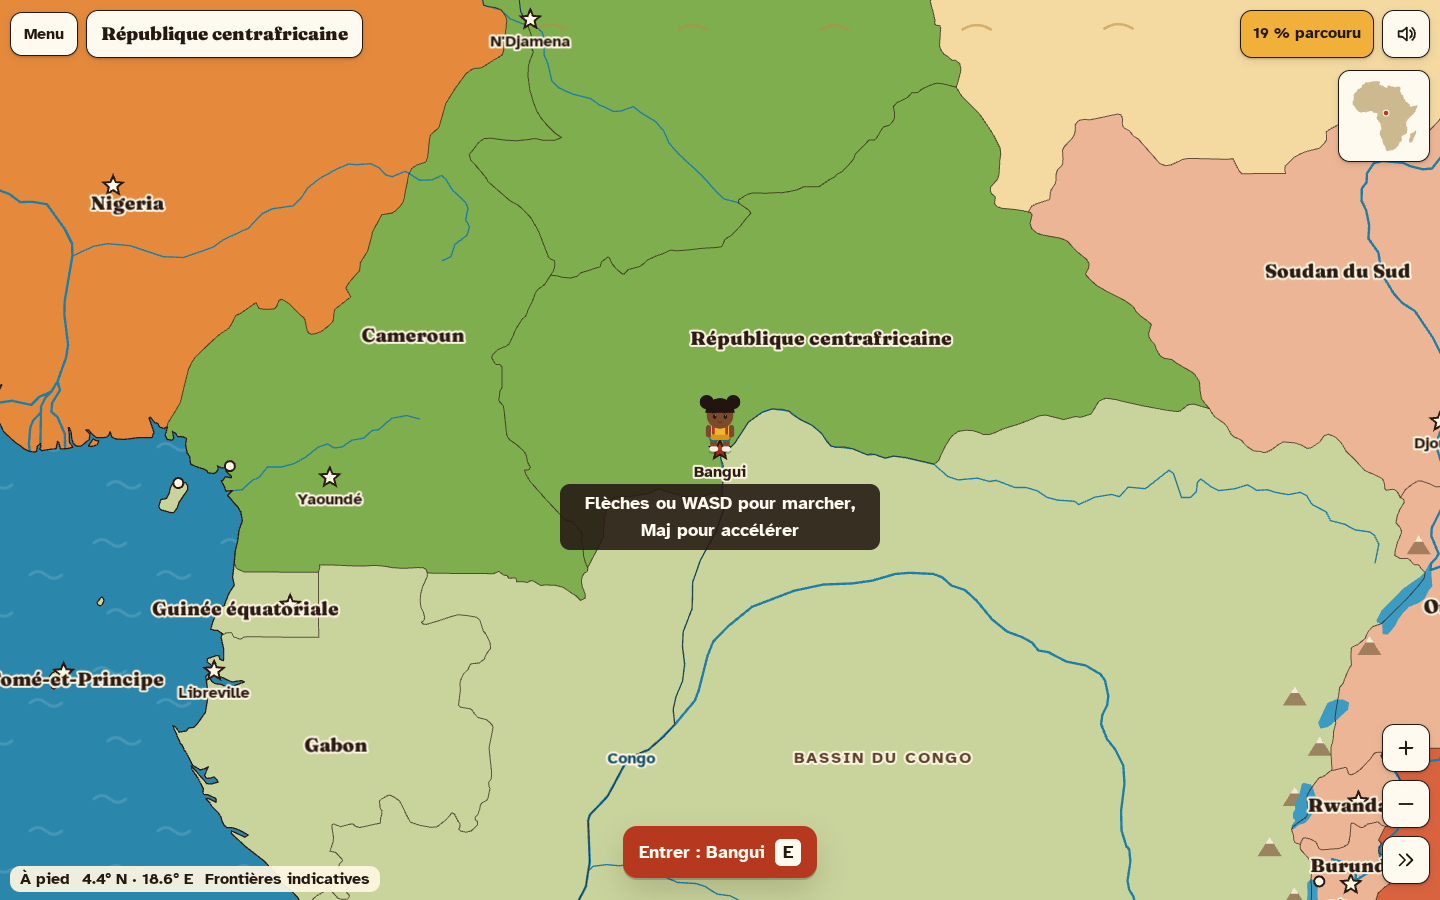
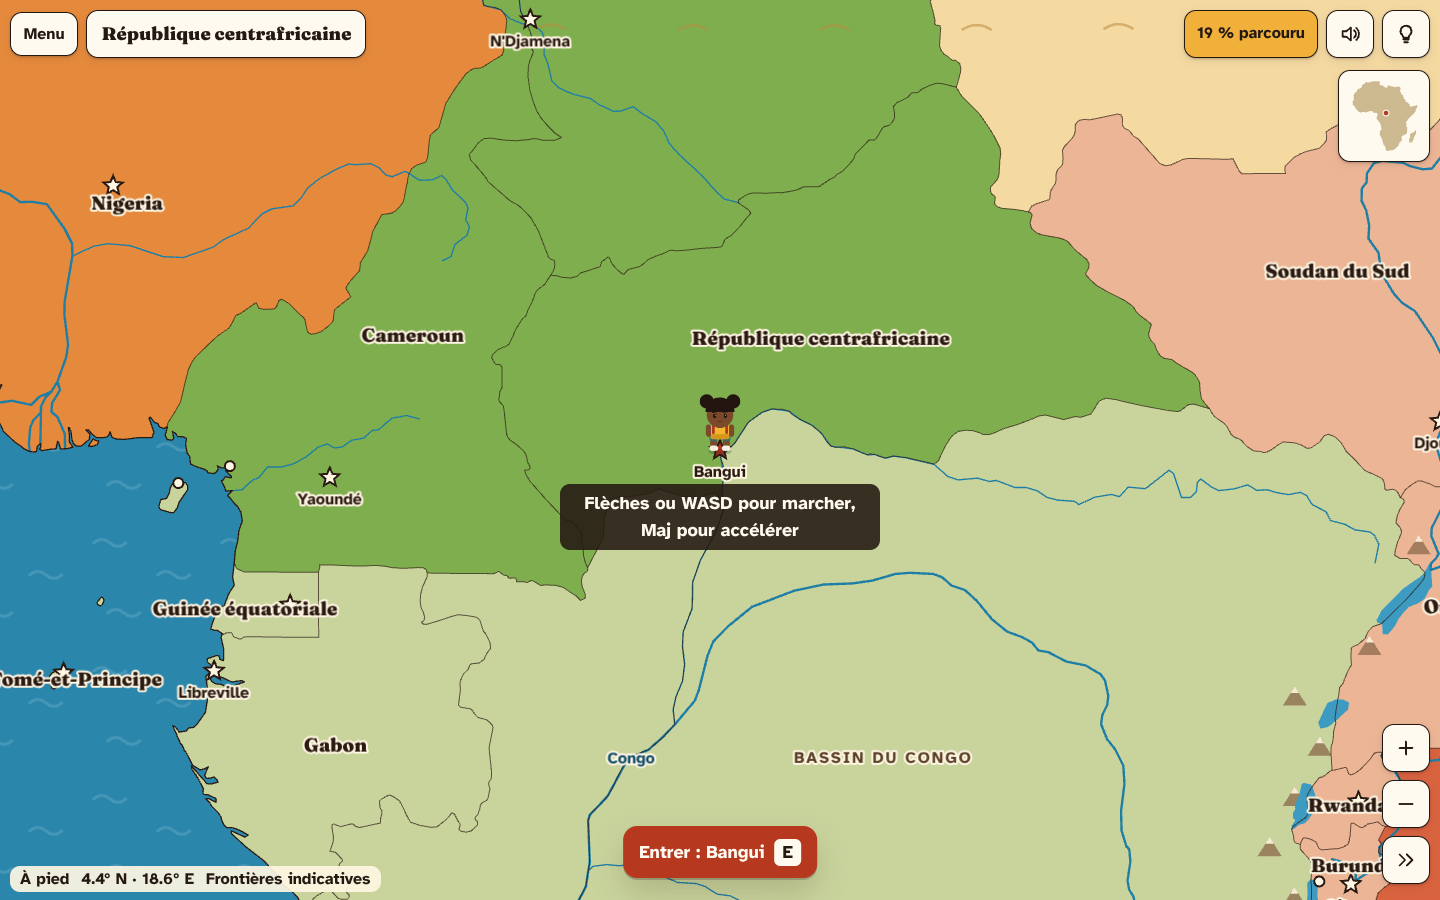
feat(retours): ampoule « Améliorer Tembea » dans la barre de la carte
- bouton icône dans le HUD, sur la carte animée comme sur la carte SVG ;
  il pré-remplit le pays en cours (jamais ESH, ADR 0003)
- nouvel écran de contexte `map` dans core/feedback
- HUD mobile : boutons fixés à 48 px, pourcentage abrégé sous 480 px
  (libellé complet conservé pour les lecteurs d'écran), nom du pays
  césuré plutôt que tronqué
- e2e : ouverture depuis la carte, nom accessible, retour du focus

Claude-Session: https://claude.ai/code/session_01R4T6wZr9osDDEwkiaPqird

diff --git a/src/ui/components/Feedback.tsx b/src/ui/components/Feedback.tsx
@@ -14,6 +14,7 @@ import type { Locale } from '../../core/types';
 import { useGameStore } from '../store';
 import { Dialog } from './Dialog';
 import { ExternalLink } from './ExternalLink';
+import { Icon } from './Icon';
 
 /** Ce que l'écran sait de son contexte ; langue, niveau et version sont ajoutés ici. */
 export type FeedbackTarget = Pick<FeedbackContext, 'screen' | 'country' | 'questionId'>;
@@ -119,14 +120,21 @@ function FeedbackDialog({ target, onClose }: { target: FeedbackTarget; onClose: 
   );
 }
 
-/** Bouton « Améliorer Tembea » : ouvre la contribution guidée, sans saisie libre ni envoi par le jeu. */
+/**
+ * Bouton « Améliorer Tembea » : ouvre la contribution guidée, sans saisie libre ni envoi par le jeu.
+ * `variant="icon"` affiche une ampoule seule, avec le libellé en nom accessible et en infobulle.
+ */
 export function FeedbackButton({
   target,
   className = 'btn btn--small',
+  variant = 'text',
+  testId = 'feedback-open',
   onOpenChange,
 }: {
   target: FeedbackTarget;
   className?: string;
+  variant?: 'text' | 'icon';
+  testId?: string;
   onOpenChange?: (open: boolean) => void;
 }) {
   const { t } = useTranslation();
@@ -135,16 +143,30 @@ export function FeedbackButton({
     setOpen(next);
     onOpenChange?.(next);
   };
+  const label = t('feedback.open');
   return (
     <>
-      <button
-        type="button"
-        className={className}
-        data-testid="feedback-open"
-        onClick={() => toggle(true)}
-      >
-        {t('feedback.open')}
-      </button>
+      {variant === 'icon' ? (
+        <button
+          type="button"
+          className="icon-btn"
+          data-testid={testId}
+          aria-label={label}
+          title={label}
+          onClick={() => toggle(true)}
+        >
+          <Icon name="idea" />
+        </button>
+      ) : (
+        <button
+          type="button"
+          className={className}
+          data-testid={testId}
+          onClick={() => toggle(true)}
+        >
+          {label}
+        </button>
+      )}
       {open && <FeedbackDialog target={target} onClose={() => toggle(false)} />}
     </>
   );

diff --git a/src/ui/screens/PlayScreen.tsx b/src/ui/screens/PlayScreen.tsx
@@ -13,6 +13,7 @@ import type { GameData } from '../../data/gameData';
 import type { GameRendererHandle } from '../../render/GameRenderer';
 import { RoomView } from '../components/RoomView';
 import { CountryCard } from '../components/CountryCard';
+import { FeedbackButton } from '../components/Feedback';
 import { Dialog } from '../components/Dialog';
 import { Joystick } from '../components/Joystick';
 import { Icon } from '../components/Icon';
@@ -647,7 +648,11 @@ export function PlayScreen() {
             data-testid="hud-percent"
             data-stamps={Object.keys(progress.stamps).length}
           >
-            {t('hud.travelled', { percent })}
+            {/* Sur petit écran, le libellé court laisse la place au nom du pays. */}
+            <span className="hud__stat-full">{t('hud.travelled', { percent })}</span>
+            <span className="hud__stat-short" aria-hidden="true">
+              {t('hud.travelledShort', { percent })}
+            </span>
           </p>
           <button
             type="button"
@@ -659,6 +664,18 @@ export function PlayScreen() {
           >
             <Icon name={settings.muted ? 'soundOff' : 'soundOn'} />
           </button>
+          <FeedbackButton
+            variant="icon"
+            testId="hud-feedback"
+            target={{
+              screen: 'map',
+              // Le Sahara occidental n'est pas un État (ADR 0003) : pas de pays pré-rempli.
+              country:
+                currentCountry && currentCountry !== NON_STATE_TERRITORY
+                  ? currentCountry
+                  : undefined,
+            }}
+          />
         </header>
       )}
 

diff --git a/e2e/feedback.spec.ts b/e2e/feedback.spec.ts
@@ -107,3 +107,26 @@ test('la fiche pays propose de contribuer et reste ouverte pendant', async ({ pa
   await page.getByTestId('feedback-close').click();
   await expect(card).toBeVisible();
 });
+
+test('l’ampoule de la carte ouvre la contribution avec le pays en cours', async ({ page }) => {
+  await createProfile(page);
+  await page.getByTestId('mode-explore').click();
+  const hud = page.getByTestId('hud-country');
+  await expect(hud).toHaveAttribute('data-code', 'CAF', { timeout: 30_000 });
+  const button = page.getByTestId('hud-feedback');
+  await expect(button).toBeVisible();
+  await expect(button).toHaveAccessibleName('Améliorer Tembea');
+  await button.click();
+  await page.getByTestId('feedback-idea').click();
+  await recordOpens(page);
+  await page.getByTestId('feedback-github').click();
+  await page.getByTestId('external-continue').click();
+  const [url] = await openedUrls(page);
+  const params = new URL(url!).searchParams;
+  expect(params.get('screen')).toBe('map');
+  expect(params.get('country')).toBe('CAF');
+  expect(params.get('template')).toBe('idee.yml');
+  await page.getByTestId('feedback-close').click();
+  await expect(page.getByTestId('feedback-dialog')).toBeHidden();
+  await expect(button).toBeFocused();
+});

diff --git a/src/core/feedback.ts b/src/core/feedback.ts
@@ -18,7 +18,7 @@ export const FEEDBACK_CATEGORIES = [
 ] as const;
 export type FeedbackCategory = (typeof FEEDBACK_CATEGORIES)[number];
 
-export const FEEDBACK_SCREENS = ['country-card', 'quiz', 'parents'] as const;
+export const FEEDBACK_SCREENS = ['map', 'country-card', 'quiz', 'parents'] as const;
 export type FeedbackScreen = (typeof FEEDBACK_SCREENS)[number];
 
 /** Formulaires GitHub (`.github/ISSUE_TEMPLATE/`), un par famille de retours. */
@@ -43,6 +43,7 @@ const TEMPLATE_OF: Record<FeedbackCategory, FeedbackTemplateKey> = {
 
 const CATEGORIES_BY_SCREEN: Record<FeedbackScreen, readonly FeedbackCategory[]> = {
   // Ordre d'affichage : ce que le joueur apporte d'abord, les problèmes en dernier.
+  map: ['idea', 'fact-wrong', 'map', 'translation', 'bug'],
   'country-card': ['idea', 'fact-wrong', 'map', 'translation', 'bug'],
   quiz: ['too-hard', 'too-easy', 'fact-wrong', 'translation', 'bug'],
   parents: ['idea', 'fact-wrong', 'map', 'translation', 'bug'],

diff --git a/src/ui/styles.css b/src/ui/styles.css
@@ -694,6 +694,49 @@ select {
   cursor: pointer;
 }
 
+.hud .icon-btn,
+.hud .btn {
+  /* Cibles tactiles de 48 px : c'est le nom du pays qui cède la place sur mobile. */
+  flex-shrink: 0;
+}
+
+.hud__stat-short {
+  display: none;
+}
+
+@media (max-width: 480px) {
+  .hud {
+    gap: 6px;
+  }
+
+  .hud__place {
+    font-size: 1rem;
+    line-height: 1;
+    padding: 6px 10px;
+    hyphens: auto;
+    overflow-wrap: break-word;
+  }
+
+  .hud__stat {
+    padding: 4px 8px;
+    white-space: nowrap;
+  }
+
+  .hud__stat-short {
+    display: inline;
+  }
+
+  /* Le libellé complet reste lu par les lecteurs d'écran. */
+  .hud__stat-full {
+    position: absolute;
+    width: 1px;
+    height: 1px;
+    overflow: hidden;
+    clip-path: inset(50%);
+    white-space: nowrap;
+  }
+}
+
 .hud__place:disabled {
   cursor: default;
   color: var(--ink);

diff --git a/src/ui/components/Icon.tsx b/src/ui/components/Icon.tsx
@@ -7,6 +7,7 @@ const PATHS = {
   close: 'M6 6l12 12M18 6 6 18',
   chevron: 'M9 5l7 7-7 7',
   back: 'M15 5l-7 7 7 7',
+  idea: 'M9 18h6M10 21h4M12 3a6 6 0 0 0-3.8 10.6c.6.5.8 1.2.8 1.9V16h6v-.5c0-.7.2-1.4.8-1.9A6 6 0 0 0 12 3Z',
 } as const;
 
 export type IconName = keyof typeof PATHS;

diff --git a/docs/adr/0009-retours-utilisateurs.md b/docs/adr/0009-retours-utilisateurs.md
@@ -10,7 +10,7 @@ Le propriétaire veut que le jeu évolue à partir des retours de ses joueurs, e
 
 **Dans le jeu : une contribution guidée, jamais transmise par le jeu.**
 
-- Un bouton « Améliorer Tembea » apparaît sur la fiche pays, après une réponse au quiz et dans la page « À propos ». Le joueur choisit une catégorie dans une liste fermée, et rien d'autre.
+- Un bouton « Améliorer Tembea » apparaît sur la carte (icône ampoule en haut), sur la fiche pays, après une réponse au quiz et dans la page « À propos ». Le joueur choisit une catégorie dans une liste fermée, et rien d'autre.
 - `src/core/feedback.ts` assemble un rapport à partir de valeurs fermées : catégorie, code pays, identifiant de question, écran, langue, niveau, version. Toute valeur hors liste est refusée.
 - Le jeu en tire deux sorties, l'une comme l'autre déclenchée par un clic explicite :
   - un lien GitHub pré-rempli, ouvert par `ExternalLink` derrière l'écran d'avertissement ;

diff --git a/docs/FEEDBACK.md b/docs/FEEDBACK.md
@@ -3,7 +3,7 @@
 Circuit décidé par l'ADR 0009. Le jeu ne transmet rien : il prépare une contribution que le joueur, ou un adulte, publie sur GitHub. Des agents planifiés trient ensuite ces contributions et en tirent des tickets.
 
 ```
-Jeu : bouton « Améliorer Tembea », choix fermés
+Jeu : bouton « Améliorer Tembea » (ampoule sur la carte, fiche pays, quiz, À propos), choix fermés
   ├─ « Publier sur GitHub » → avertissement → formulaire pré-rempli
   └─ « Copier pour un adulte » → résumé et lien
 GitHub : issue avec triage:new et type:*
